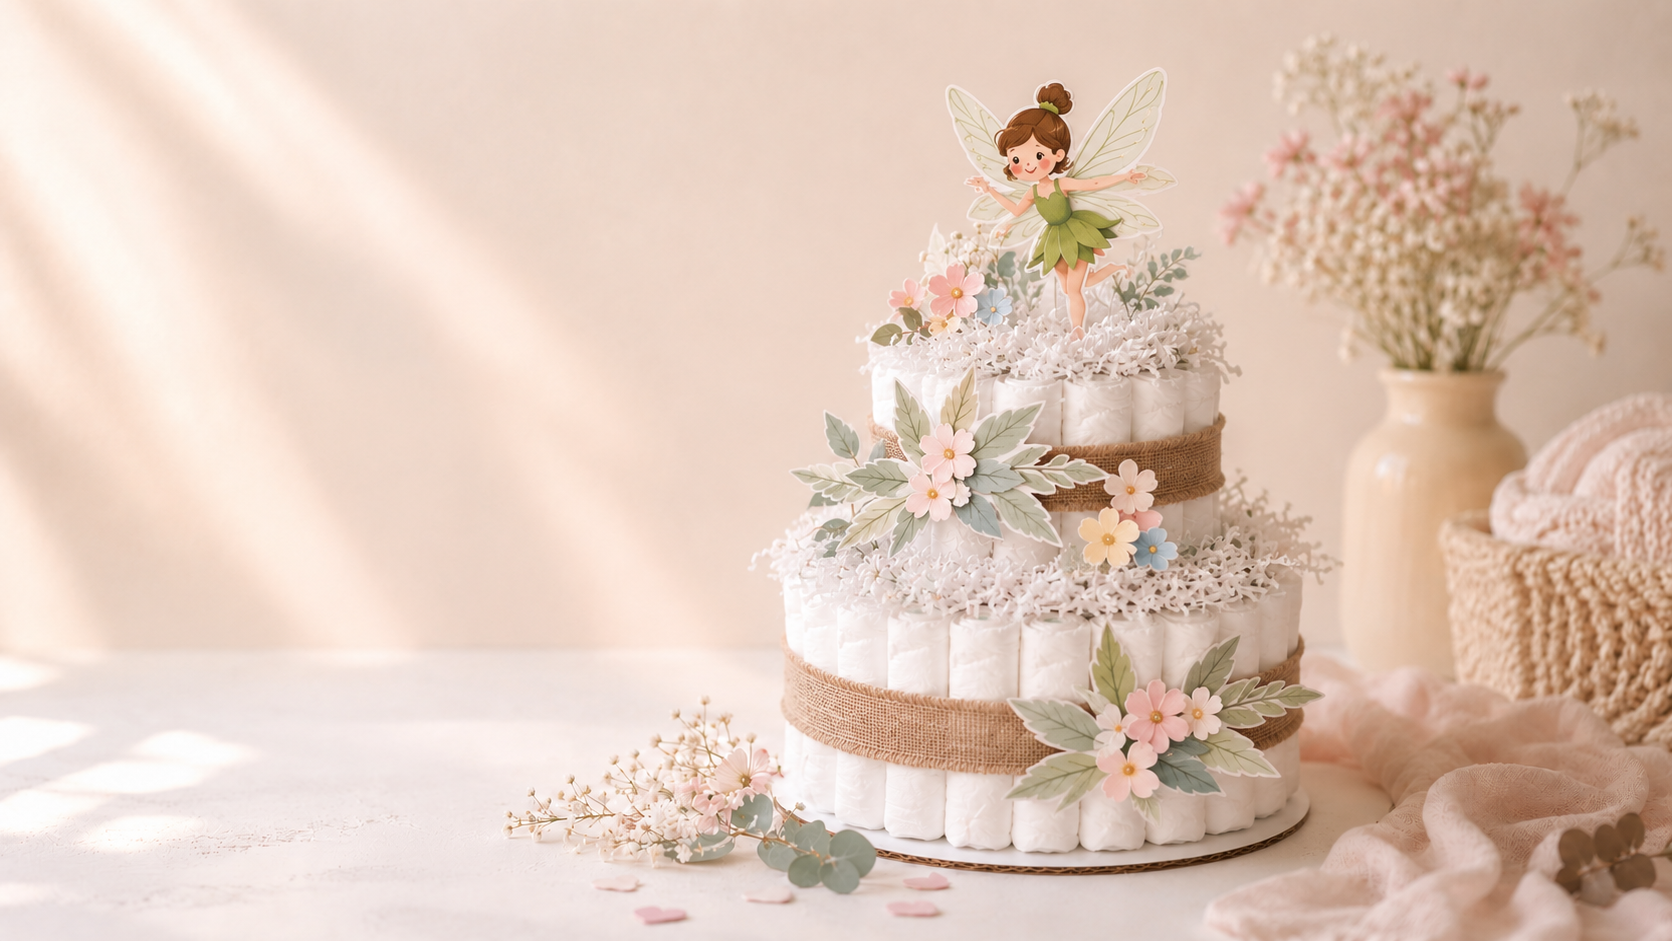
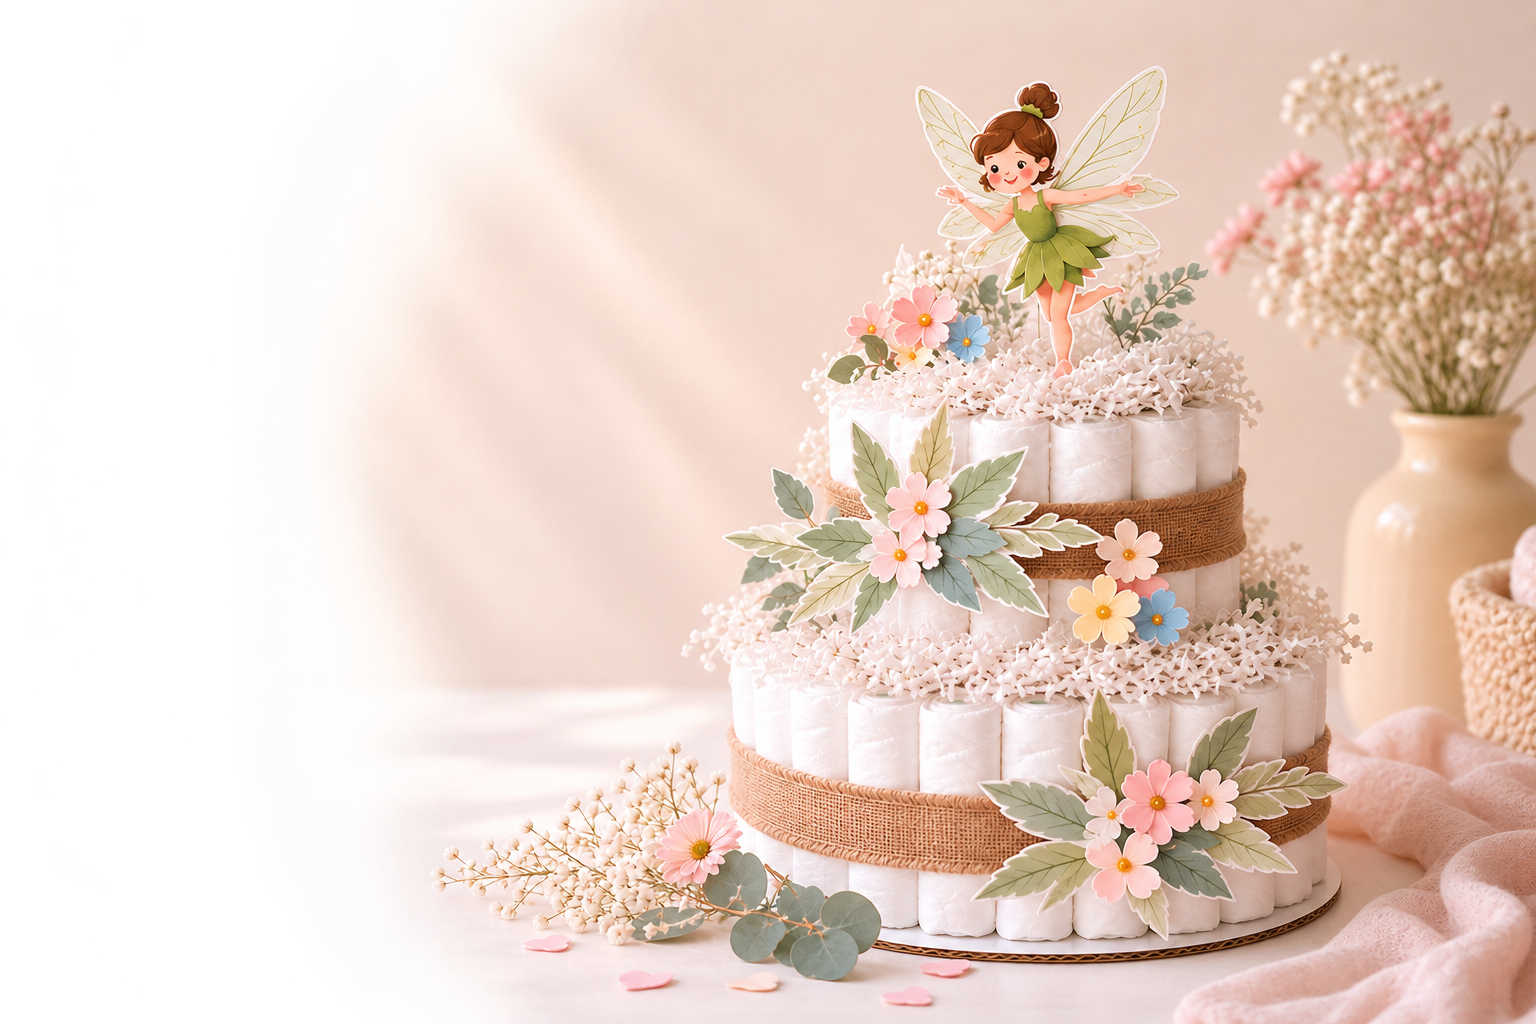
feat: enhance hero section background with gradient and styling improvements

diff --git a/src/components/home/hero.css b/src/components/home/hero.css
@@ -1,9 +1,25 @@
 .hero {
+  --hero-background-light: #f7ede6;
+  --hero-background-base: #f6eadf;
+  --hero-background-rose: #f2ddd3;
+
   position: relative;
   isolation: isolate;
   overflow: hidden;
   padding-block: var(--space-6) var(--space-16);
-  background: transparent;
+  background:
+    radial-gradient(
+      ellipse at left top,
+      rgb(255 255 255 / 44%) 0%,
+      rgb(255 255 255 / 12%) 38%,
+      transparent 64%
+    ),
+    linear-gradient(
+      120deg,
+      var(--hero-background-light) 0%,
+      var(--hero-background-base) 42%,
+      var(--hero-background-rose) 100%
+    );
 }
 
 .hero__frame {
@@ -224,7 +240,6 @@
     margin-block-start: 0;
     overflow: hidden;
     padding-block: 0;
-    background: transparent;
   }
 
   .hero__frame {
@@ -359,23 +374,6 @@
     content: none;
   }
 
-  .hero__media::after {
-    position: absolute;
-    z-index: var(--z-raised);
-    inset: 0 auto 0 0;
-    inline-size: 92%;
-    background: linear-gradient(
-      90deg,
-      var(--color-canvas) 0%,
-      color-mix(in srgb, var(--color-canvas) 96%, transparent) 30%,
-      color-mix(in srgb, var(--color-canvas) 78%, transparent) 58%,
-      color-mix(in srgb, var(--color-canvas) 38%, transparent) 82%,
-      transparent 100%
-    );
-    content: '';
-    pointer-events: none;
-  }
-
   .hero__picture,
   .hero__image {
     block-size: 100%;
@@ -389,13 +387,6 @@
 
   .hero__image {
     aspect-ratio: auto;
-    -webkit-mask-image: linear-gradient(
-      90deg,
-      transparent 0%,
-      #000 94%,
-      #000 100%
-    );
-    mask-image: linear-gradient(90deg, transparent 0%, #000 94%, #000 100%);
     object-fit: cover;
     object-position: 58% 50%;
   }
